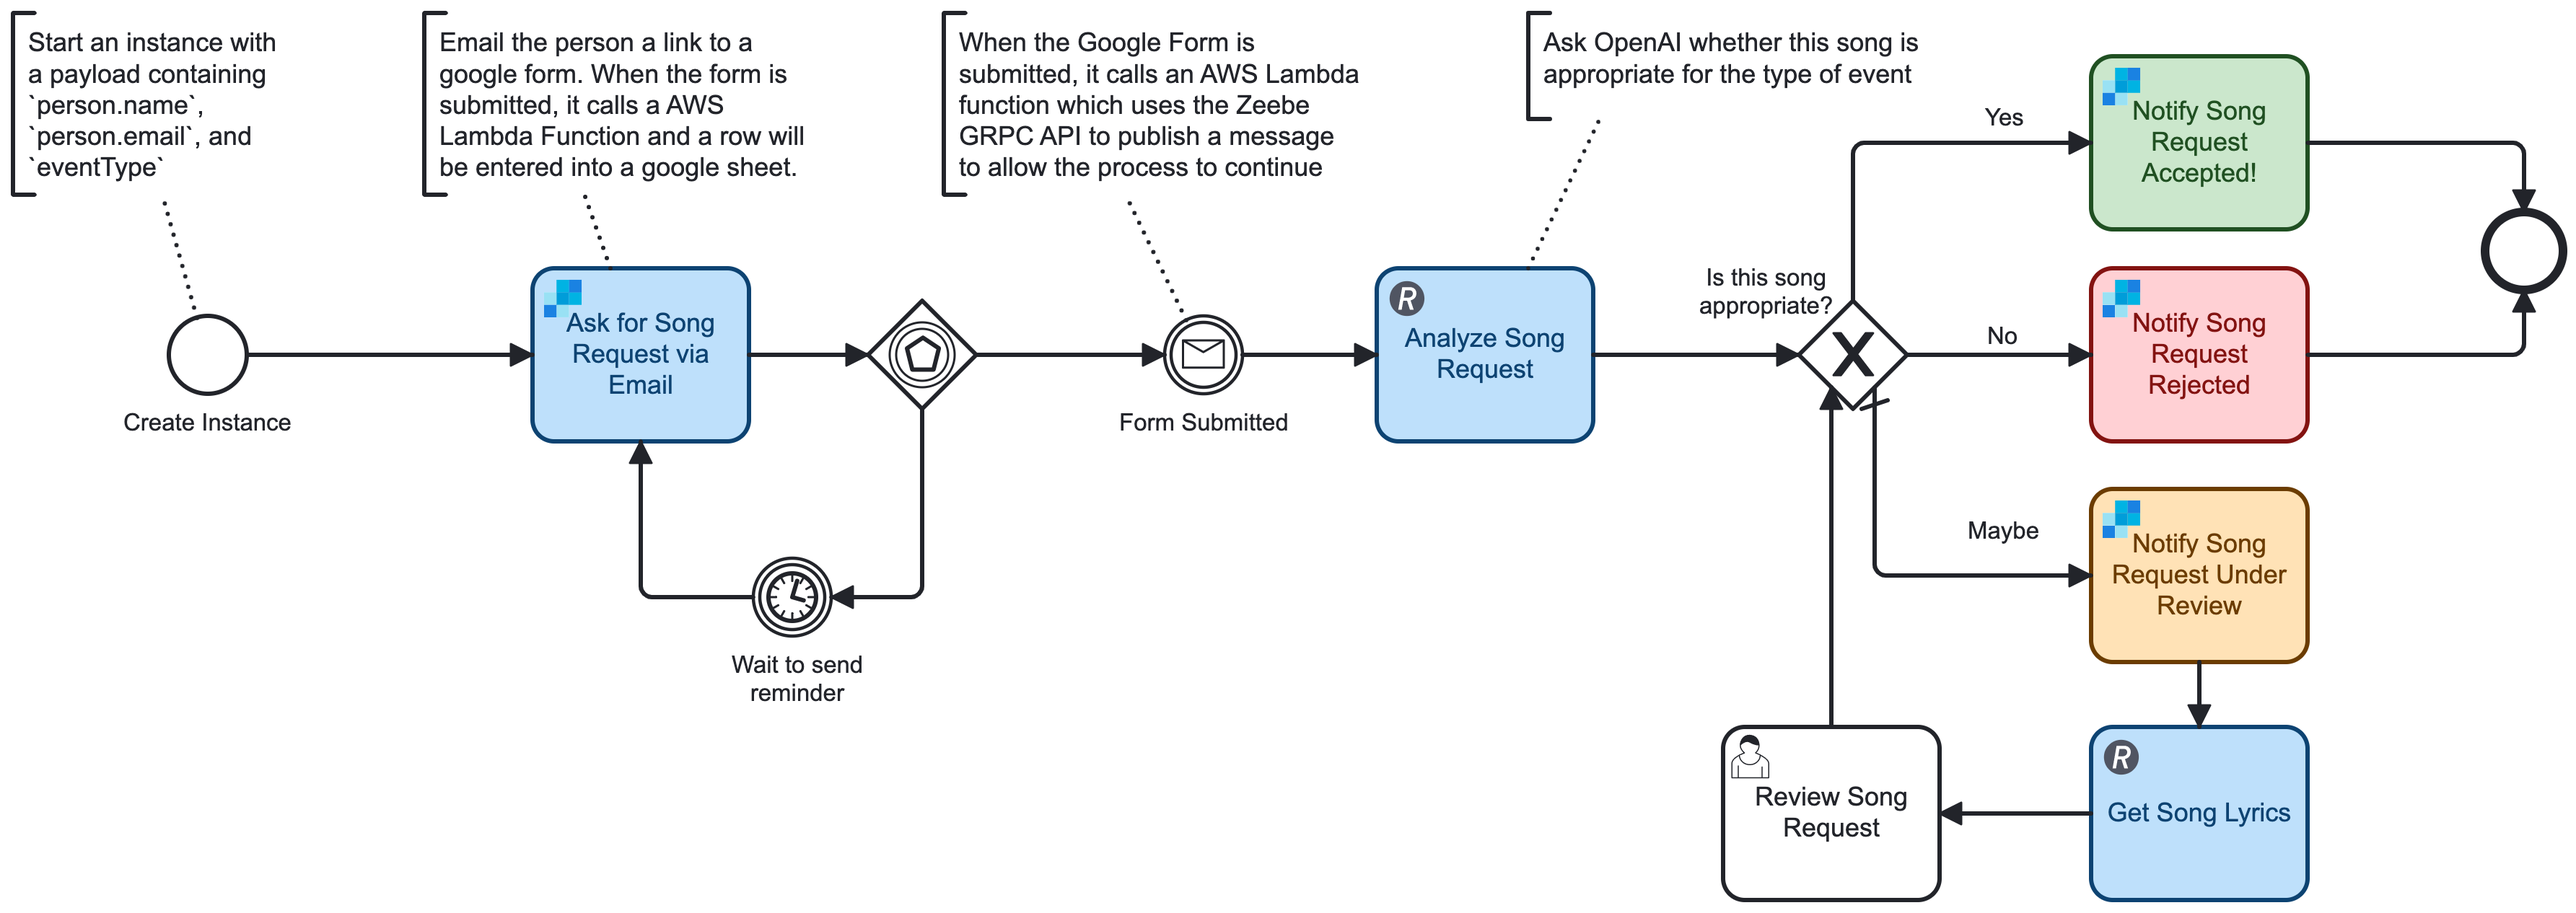
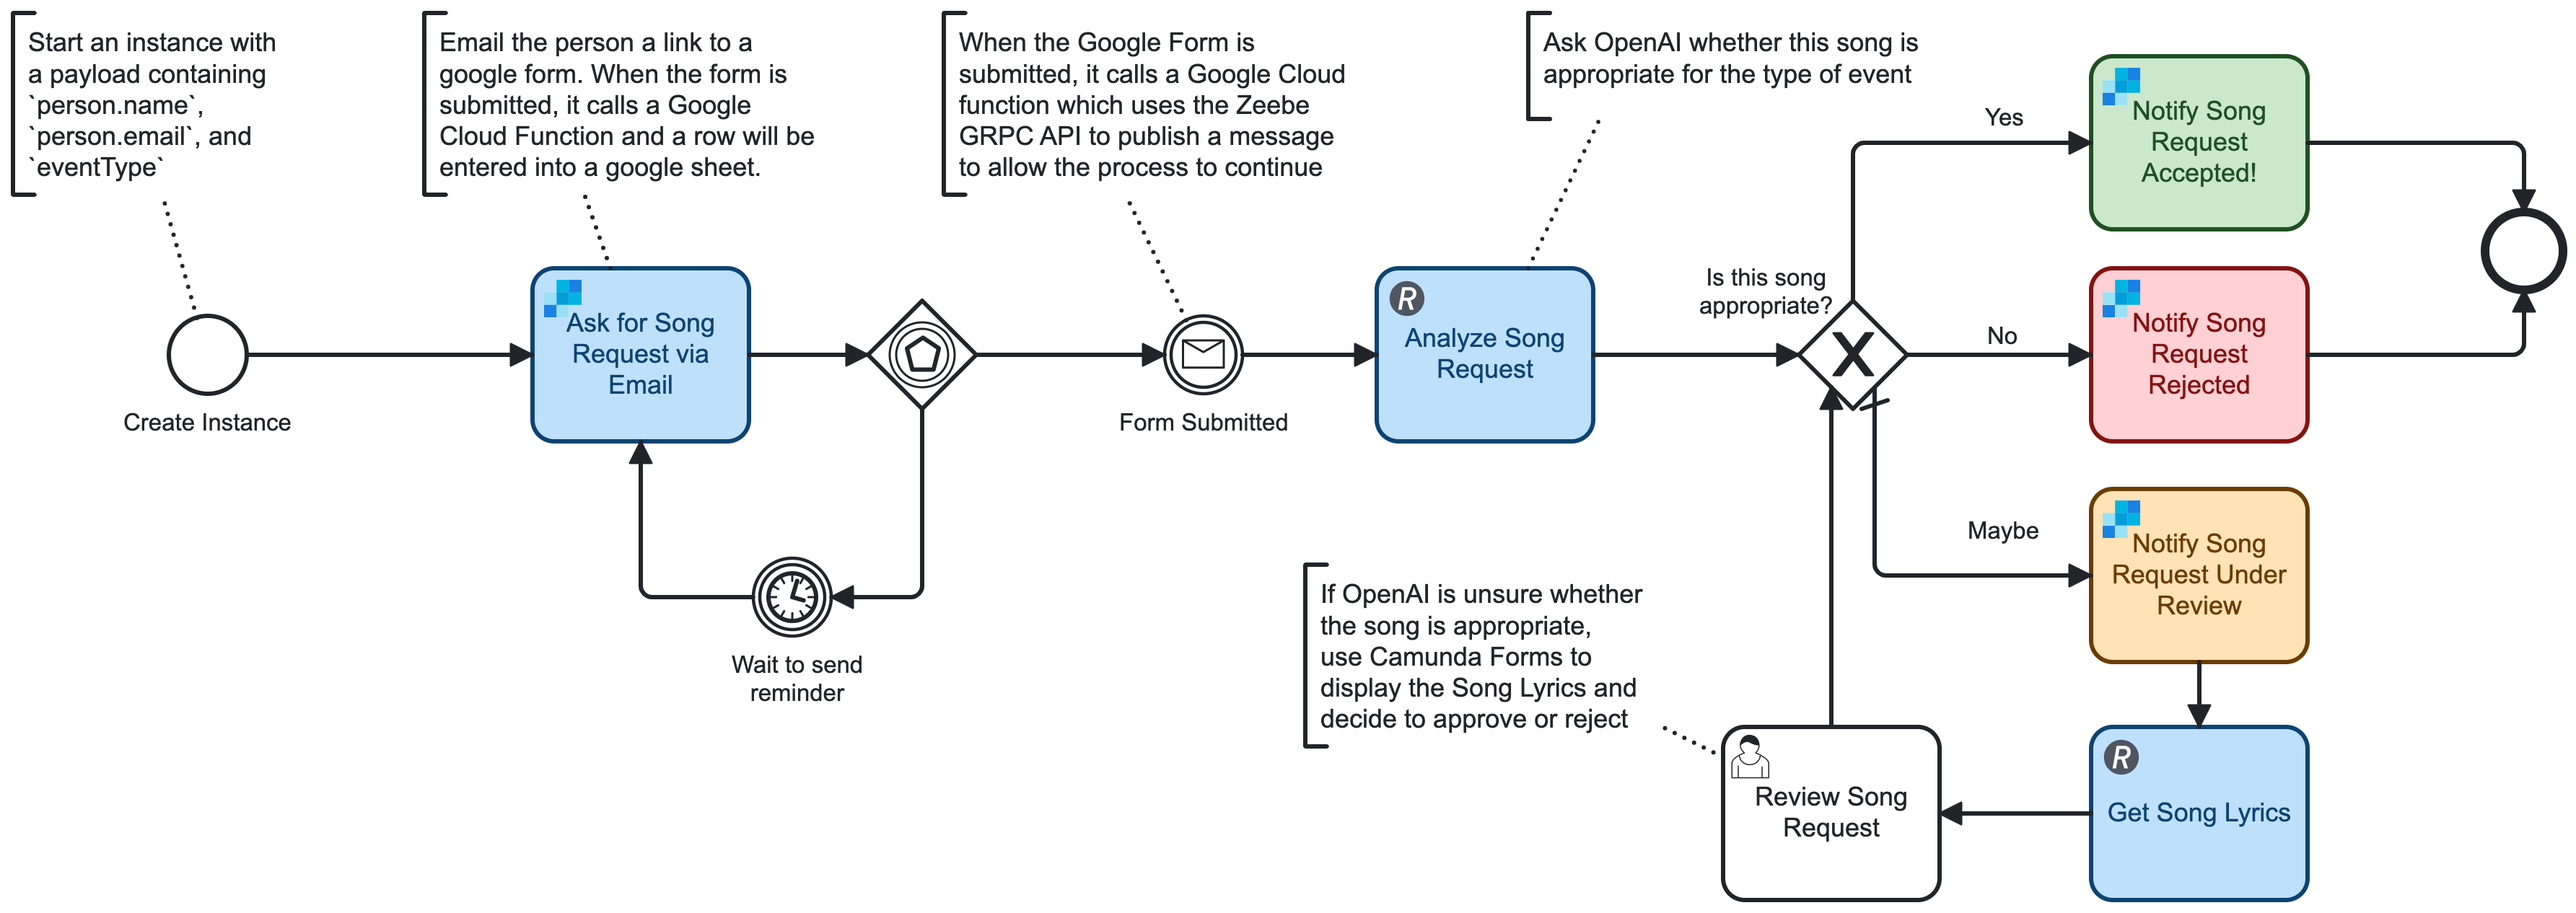
Add apps script code, and update bpmn process

Changed region(s): [[0.4975, 0.6161, 0.6529, 0.8009], [0.1555, 0.0924, 0.3109, 0.2156], [0.4664, 0.0616, 0.5286, 0.0924]]

diff --git a/src/main/resources/Code.js b/src/main/resources/Code.js
@@ -1,0 +1,71 @@
+/**
+ * This is a generic function that sends data to a url which publishes a message to Camunda 8 environment.
+ *
+ * A POST request is sent to a url which represents a REST Endpoint.
+ * The code running at the REST Endpoint will use a Zeebe Client to publish a message using `messageName`
+ * and `correlationKey`. The `formDataJson` argument will be stored as Camunda process instance variables
+ *
+ * To use this in your own Google Form, copy and past it as the contents of `Code.gs` and be sure to change the
+ * url to point to your own REST API endpoint.
+ */
+function publishCamundaMessage(url, camundaMessageName, correlationKey, formDataJson) {
+
+  var data = {
+    'messageName': camundaMessageName,
+    'correlationKey': correlationKey,
+    'formData': formDataJson
+  };
+
+  var options = {
+    'method': 'post',
+    'contentType': 'application/json',
+    'payload': JSON.stringify(data)
+  };
+
+  console.log("Attempting POST");
+  console.log(options);
+
+  var response = UrlFetchApp.fetch(url, options);
+  console.log(response.getContentText());
+
+  return response;
+}
+
+/**
+ * This is very simplistic converstion of a FormResponse to json
+ */
+function formResponseToJson(formResponse) {
+
+  var result = {
+    'itemResponses': []
+  }
+
+  var itemResponses = formResponse.getItemResponses();
+  for (var i=0; i<itemResponses.length; i++) {
+    var itemResponse = itemResponses[i];
+    var answer = itemResponse.getResponse();
+
+    var itemResponseJson = {
+      'title': itemResponse.getItem().getTitle(),
+      'answer': answer
+    };
+    result.itemResponses.push(itemResponseJson);
+  }
+
+  return result;
+}
+
+/**
+ * This is the function that is registered to run whenever the Google Form is submitted
+ */
+function onFormSubmit(e) {
+  var formResponse = e.response;
+
+  var url = 'https://us-central1-camunda-researchanddevelopment.cloudfunctions.net/dave-song-request-gcp-http';
+  var messageName = 'Message_formSubmitted';
+  var correlationKey = formResponse.getItemResponses()[2].getResponse();
+  console.log(correlationKey);
+
+  return publishCamundaMessage(url, messageName, correlationKey, formResponseToJson(formResponse));
+
+}
